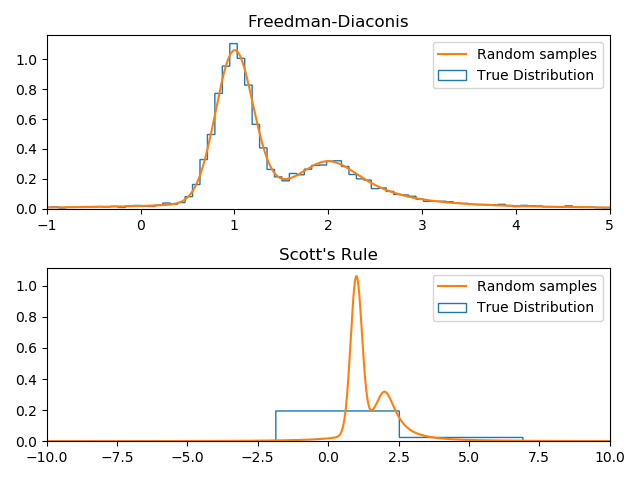
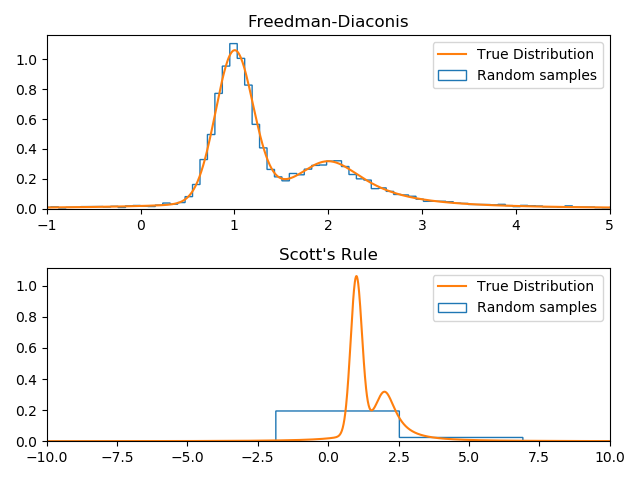
Fixed legends in gaussian histogram plots

Changed region(s): [[0.75, 0.5625, 0.9375, 0.6562], [0.75, 0.0938, 0.9375, 0.1875]]

diff --git a/Big Data/non_gaussian_histogram.py b/Big Data/non_gaussian_histogram.py
@@ -40,12 +40,12 @@ plt.xlim([-1, 5])
 plt.title("Freedman-Diaconis")
 _ = fancyhist(x_tot, bins = "freedman", density = True, histtype = "step")
 plt.plot(x_true, y_true)
-plt.legend(('Random samples', 'True Distribution'), loc = 'best')
+plt.legend(('True Distribution', 'Random samples'), loc = 'best')
 plt.subplot(212)
 plt.xlim([-10, 10])
 plt.title("Scott's Rule")
 _ = fancyhist(x_tot, bins = "scott", density = True, histtype = "step")
 plt.plot(x_true, y_true)
-plt.legend(('Random samples', 'True Distribution'), loc = 'best')
+plt.legend(('True Distribution', 'Random samples'), loc = 'best')
 plt.tight_layout()
 plt.show()

diff --git a/Big Data/gaussian_histogram.py b/Big Data/gaussian_histogram.py
@@ -27,6 +27,6 @@ ytrue_gauss = norm.pdf(xtrue_gauss, mu, sigma)
 #Create histogram
 _ = fancyhist(x_gauss, bins = "freedman", density = True, histtype = "step")
 _ = plt.plot(xtrue_gauss, ytrue_gauss)
-plt.legend(('Random samples', 'True Distribution'), loc = 'best')
+plt.legend(('True Distribution', 'Random samples'), loc = 'best')
 plt.title('Histogram with Freedman-Diaconis')
 plt.show()
